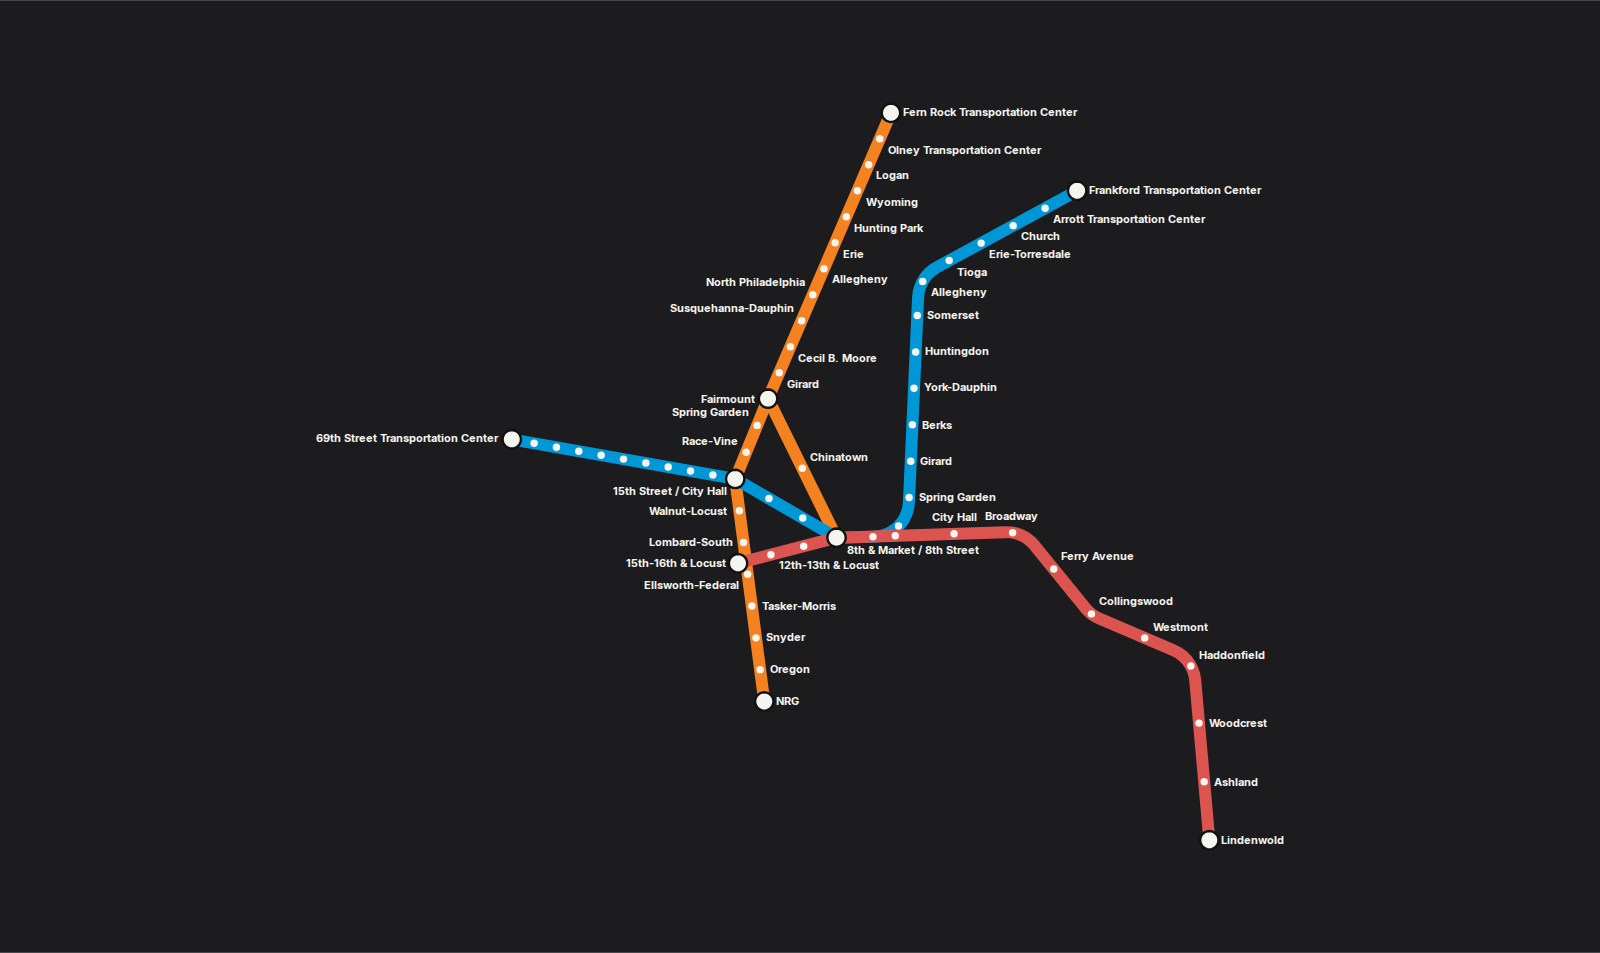
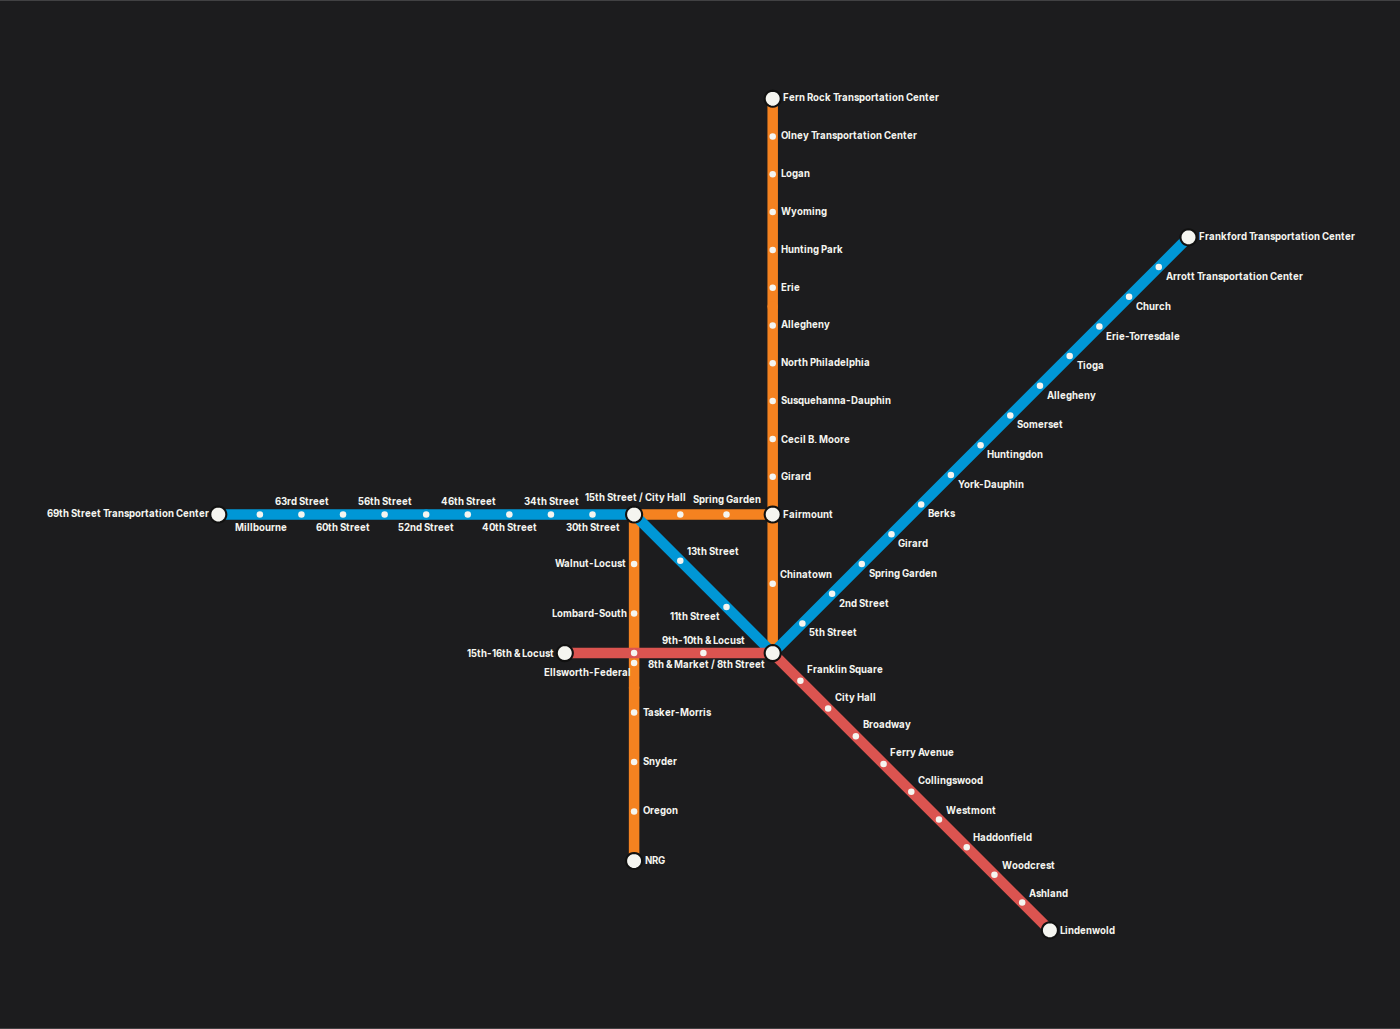
Auto layout mode (octilinear for small networks, semi-geographic for large), axis-preferring octilinear snap, display-only tape labels in preview/AR, Philadelphia/Pittsburgh renders
Claude-Session: https://claude.ai/code/session_01MBsjaw49DwxCbAxCaJEcQU

Changed region(s): [[0.0307, 0.0913, 0.9829, 0.9129]]

diff --git a/packages/core/src/geometry.ts b/packages/core/src/geometry.ts
@@ -295,13 +295,22 @@ export function buildParts(m: ManifoldToplevel, layout: LayoutResult, params: De
   let li = 0;
   for (const lb of layout.labels) {
     if (lb.tape) {
-      // Label-maker tape: a shallow rectangular pocket in the tile, nothing to print.
+      // Label-maker tape: a shallow rectangular pocket in the tile, nothing to print. For the preview/AR we
+      // still emit the tape (white strip + dark text) as display-only parts (kind 'tape'), never on a plate.
       const t = (lb.angle * Math.PI) / 180;
       let rect = CrossSection.square([lb.width, lb.height], false);
       const r = rect.rotate(lb.angle); rect.delete();
       const pocket = r.translate([lb.x, lb.y]); r.delete();
       tapePocketCS.push(keep(pocket));
-      void t;
+      const place = (p: Vec2): Vec2 => add([lb.x, lb.y], rotate(p, t));
+      const stripM = pocket.extrude(0.5).translate([0, 0, z.baseTop - 0.6]);
+      const polys = font.outlines(lb.text, lb.fontSize, { flatness: 0.3 }).map((poly) => poly.map((p) => place(add(lb.textOrigin, p))));
+      const txt = new CrossSection(polys, 'NonZero');
+      const inset = pocket.offset(-0.3, 'Miter');
+      const clipped = txt.intersect(inset); txt.delete(); inset.delete();
+      const txtM = clipped.extrude(0.15).translate([0, 0, z.baseTop - 0.1]); clipped.delete();
+      pushPart(stripM, { id: `tape-${lb.n}`, name: `${lb.text} tape label`, kind: 'tape', color: '#ffffff', colorName: 'Tape label', stationId: lb.stationId, tag: `T${String(lb.n).padStart(3, '0')}` });
+      pushPart(txtM, { id: `tape-${lb.n}-text`, name: `${lb.text} tape text`, kind: 'tapeText', color: '#111111', colorName: 'Tape text', stationId: lb.stationId });
       continue;
     }
     const t = (lb.angle * Math.PI) / 180;

diff --git a/packages/core/src/bundle.ts b/packages/core/src/bundle.ts
@@ -62,7 +62,7 @@ export function buildBundle(r: FullBuildResult, opts: BundleOptions = {}): Bundl
 
   // Individual STLs
   if (opts.individualStls !== false) {
-    r.parts.forEach((p, i) => {
+    r.parts.filter((p) => p.kind !== 'tape' && p.kind !== 'tapeText').forEach((p, i) => {
       const dir = p.kind === 'tile' ? 'tiles' : p.kind === 'line' ? `lines/${slugify(p.colorName)}` : p.kind.startsWith('label') ? 'labels' : 'stations';
       files[`parts/${dir}/${p.id}.stl`] = meshToStl(p.mesh, p.name, { dx: -p.bbox.min[0], dy: -p.bbox.min[1], dz: -p.bbox.min[2] });
       if (i % 100 === 0) progress(0.6 + 0.2 * (i / r.parts.length), `Part STL ${i + 1}/${r.parts.length}`);
@@ -70,7 +70,7 @@ export function buildBundle(r: FullBuildResult, opts: BundleOptions = {}): Bundl
   }
 
   // Assembled 3MF (all parts in place, coloured) — useful for multi-material printers and viewing.
-  files['assembled.3mf'] = write3mf(r.parts.map((p) => ({ name: p.name, mesh: p.mesh, color: p.color })), `${r.network.displayName} — assembled`);
+  files['assembled.3mf'] = write3mf(r.parts.filter((p) => p.kind !== 'tape' && p.kind !== 'tapeText').map((p) => ({ name: p.name, mesh: p.mesh, color: p.color })), `${r.network.displayName} — assembled`);
 
   // Previews / AR
   const bounds = { width: r.layout.width, height: r.layout.height };

diff --git a/packages/core/src/types.ts b/packages/core/src/types.ts
@@ -47,8 +47,8 @@ export interface MetroNetwork {
 
 /* ----------------------------- Layout ----------------------------- */
 
-/** semi: geographic shape with an enlarged centre, corridors smoothed to 30° steps (official-map look) · schematic: strict octilinear grid · geographic: raw positions. */
-export type LayoutMode = 'geographic' | 'schematic' | 'semi';
+/** auto: schematic for small networks (≤ 6 lines, the way US operators draw them), semi for big ones · semi: geographic shape with an enlarged centre, corridors smoothed to 30° steps (official-map look) · schematic: strict octilinear grid · geographic: raw positions. */
+export type LayoutMode = 'auto' | 'geographic' | 'schematic' | 'semi';
 
 export interface LayoutOptions {
   mode: LayoutMode;
@@ -226,7 +226,7 @@ export interface MeshData {
   indices: Uint32Array;
 }
 
-export type PartKind = 'tile' | 'line' | 'plug' | 'ring' | 'dot' | 'label' | 'labelText' | 'labelPlate';
+export type PartKind = 'tile' | 'line' | 'plug' | 'ring' | 'dot' | 'label' | 'labelText' | 'labelPlate' | 'tape' | 'tapeText';
 
 export interface Part {
   id: string;

diff --git a/packages/core/src/pipeline.ts b/packages/core/src/pipeline.ts
@@ -26,7 +26,7 @@ export interface FullBuildResult extends BuildResult {
 /** Approximate printed mass: solid-ish parts at ~90 %, tiles at ~45 % (walls + 15 % infill). PLA 1.24 g/cm³. */
 export function estimateGrams(parts: BuildResult['parts']): number {
   let g = 0;
-  for (const p of parts) g += (p.volumeMm3 / 1000) * 1.24 * (p.kind === 'tile' ? 0.45 : 0.9);
+  for (const p of parts) { if (p.kind === 'tape' || p.kind === 'tapeText') continue; g += (p.volumeMm3 / 1000) * 1.24 * (p.kind === 'tile' ? 0.45 : 0.9); }
   return g;
 }
 
@@ -59,7 +59,7 @@ export function buildFromNetwork(net: MetroNetwork, opts: BuildOptions): FullBui
     lines: layout.lines.length,
     labels: layout.labels.length,
     unlabeled: layout.unlabeled.length,
-    parts: geo.parts.length,
+    parts: geo.parts.filter((p) => p.kind !== 'tape' && p.kind !== 'tapeText').length,
     plates: plates.length,
     triangles: geo.parts.reduce((s, p) => s + p.triangles, 0),
     volumeMm3: geo.parts.reduce((s, p) => s + p.volumeMm3, 0),

diff --git a/packages/core/src/layout/force.ts b/packages/core/src/layout/force.ts
@@ -21,7 +21,17 @@ export interface ForceOptions {
 }
 
 const OCT = Math.PI / 4;
-export const snapAngle = (t: number) => Math.round(t / OCT) * OCT;
+/**
+ * Snap to the octilinear grid with a preference for horizontals/verticals: official diagrams use diagonals
+ * only when a line really runs diagonally (within ~15° of 45°); everything else is drawn straight.
+ */
+export const snapAngle = (t: number) => {
+  const q = Math.PI / 2;
+  const base = Math.round(t / q) * q;            // nearest axis
+  const off = t - base;                           // -45°..45°
+  if (Math.abs(off) < Math.PI / 6) return base;   // within 30° of an axis → axis
+  return base + Math.sign(off) * OCT;             // otherwise the diagonal on that side
+};
 
 /** Radial fisheye about the degree-weighted centroid: expands the dense core. */
 export function applyFisheye(nodes: Iterable<GNode>, amount: number): void {

diff --git a/packages/core/src/svgimport.ts b/packages/core/src/svgimport.ts
@@ -292,7 +292,7 @@ export function layoutFromSvg(svgSource: string, net: MetroNetwork, params: Desi
   const colourStats = new Map<string, { len: number; maxW: number; n: number }>();
   for (const [c, list] of ex.strokes) { let len = 0, maxW = 0; for (const p of list) { len += pathLength(p.pts); maxW = Math.max(maxW, p.width); } colourStats.set(c, { len, maxW, n: list.length }); }
   const candidates = [...colourStats.entries()].filter(([c, s]) => s.len > 50 && c !== '#ffffff');
-  const tol = opts.colorTolerance ?? 120;
+  const tol = opts.colorTolerance ?? 230;
   // Station label positions in SVG units, per station name.
   const textPos = new Map<string, SvgExtract['texts'][number]>();
   for (const t of ex.texts) { const k = normalizeName(t.name); if (k && !textPos.has(k)) textPos.set(k, t); }

diff --git a/packages/core/src/pack.ts b/packages/core/src/pack.ts
@@ -50,7 +50,7 @@ export function packPlates(parts: Part[], params: DesignParams, opts: PackOption
   const groups = new Map<string, { color: string; colorName: string; colorChange?: Plate['colorChange']; items: Item[] }>();
   const labelGroups = new Map<string, Part[]>();
   for (const p of parts) {
-    if (p.kind === 'tile') continue;
+    if (p.kind === 'tile' || p.kind === 'tape' || p.kind === 'tapeText') continue;
     if (p.group) { const g = labelGroups.get(p.group) ?? []; g.push(p); labelGroups.set(p.group, g); continue; }
     const k = `${p.color}|${p.colorName}`;
     const g = groups.get(k) ?? { color: p.color, colorName: p.colorName, items: [] };

diff --git a/packages/core/src/layout/index.ts b/packages/core/src/layout/index.ts
@@ -42,7 +42,10 @@ export function dotRadius(p: DesignParams): number {
 
 export function computeLayout(net: MetroNetwork, params: DesignParams, font: TextFont, log?: (m: string) => void): LayoutResult {
   const graph = buildStationGraph(net);
-  const lo = params.layout;
+  const lo0 = params.layout;
+  const resolvedMode = lo0.mode === 'auto' ? (net.lines.length <= 6 ? 'schematic' : 'semi') : lo0.mode;
+  const lo = { ...lo0, mode: resolvedMode };
+  params = { ...params, layout: lo };
   const semi = lo.mode === 'semi';
   const strength = lo.mode === 'geographic' || semi ? 0 : lo.schematicStrength;
   if (semi) {

diff --git a/packages/core/src/pipeline.test.ts b/packages/core/src/pipeline.test.ts
@@ -87,7 +87,7 @@ describe('geometry + packing + export', () => {
       const colors = new Set(plate.items.flatMap((it) => itemBBox(result.parts, it.partId).parts.map((p) => p.color)));
       expect(colors.size).toBeLessThanOrEqual(plate.colorChange ? 2 : 1);
     }
-    expect(seen.size).toBe(result.parts.length);
+    expect(seen.size).toBe(result.parts.filter((p) => p.kind !== 'tape' && p.kind !== 'tapeText').length);
   });
   it('writes valid STL / 3MF / GLB / USDZ', () => {
     const part = result.parts.find((p) => p.kind === 'line')!;

diff --git a/packages/core/src/defaults.ts b/packages/core/src/defaults.ts
@@ -45,7 +45,7 @@ export const DEFAULT_PARAMS: DesignParams = {
   },
 
   layout: {
-    mode: 'semi',
+    mode: 'auto',
     schematicStrength: 1,
     fisheye: 0.7,
     minSpacing: 1,
